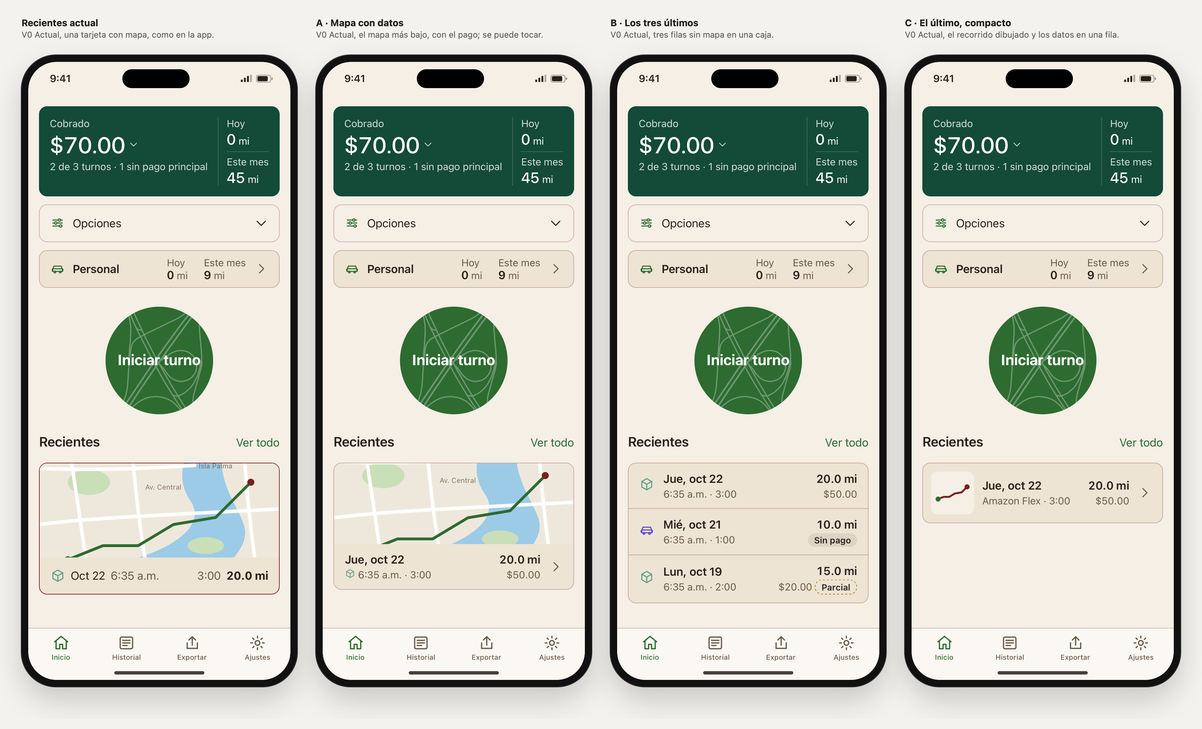
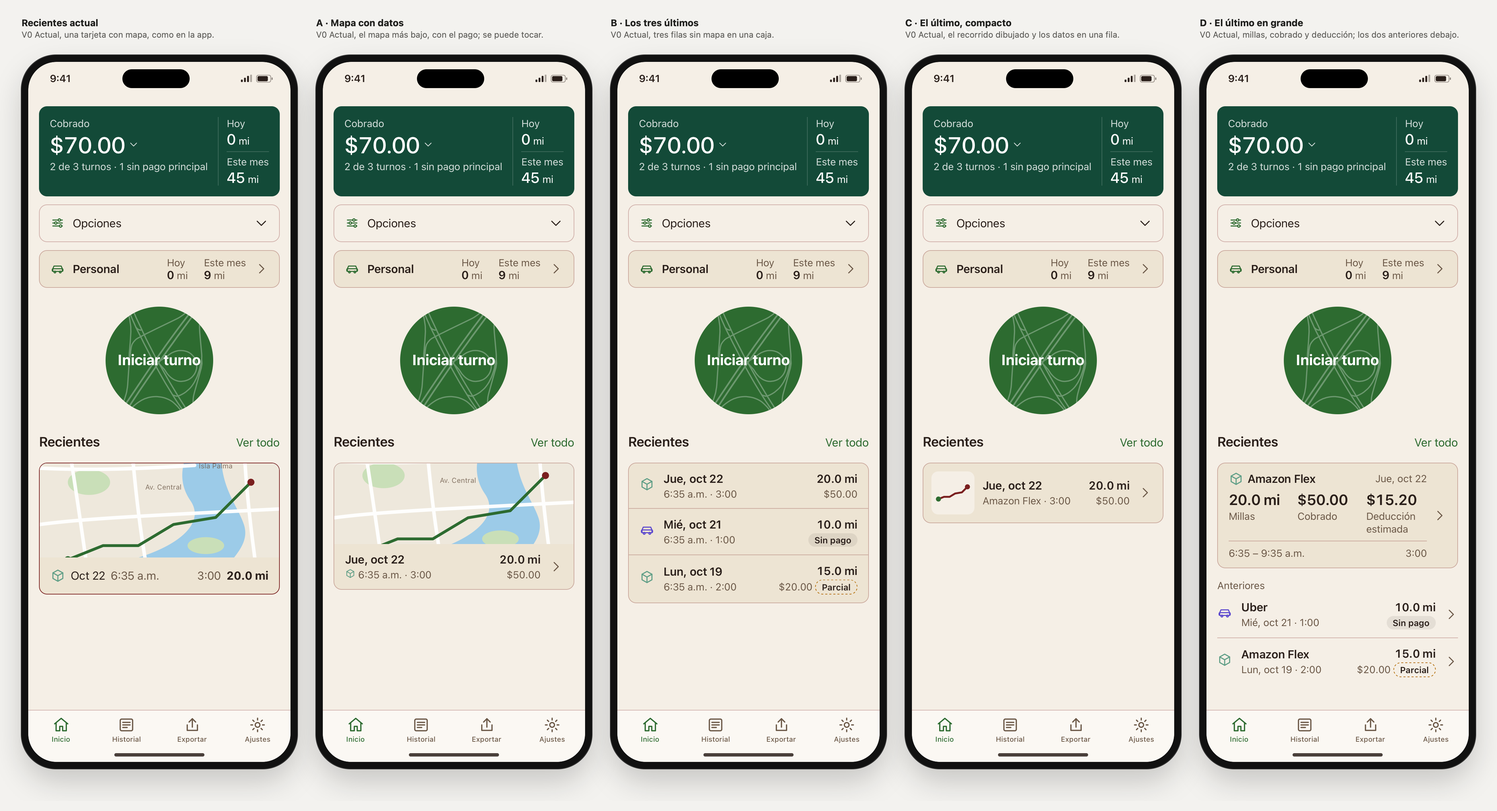
feat(design): add Recientes D, the latest shift large with the two before it
Liber asked for this from a ChatGPT sketch: the latest shift in a tappable
card with miles, pay and the estimated deduction as figures, then the two
earlier shifts as small rows. No map, by his choice, which reverses the
18 May decision like B. Figures wrap to the next line and shrink only when
one cannot fit alone. WebKit audit: 1440 renders, 0 failures; negative
control 12 of 12. Lab only; nothing changes in the app.

diff --git a/prototype/js/screens.js b/prototype/js/screens.js
@@ -505,12 +505,37 @@
       <span class="row-chevron">${icon('chevronRight')}</span></button>`;
   }
 
+  // D · Liber's pick (6 Nov) from a ChatGPT sketch: the latest shift large, with miles, pay and the estimated
+  // deduction as figures, then the two before it as small rows. No map: the route stays in the shift detail.
+  function payFigure(ctx, s) {
+    if (s.main === 'overflow') return { v: '—', chip: '' };
+    if (s.main === null) return s.extras.length ? { v: money(ctx, mainAmount(s)), chip: chip(ctx.t('partialChip'), 'partial') } : { v: '', chip: chip(ctx.t('noPayChip')) };
+    return { v: money(ctx, mainAmount(s)), chip: '' };
+  }
+  function recentD(ctx, list) {
+    const [s, ...rest] = list;
+    const pay = payFigure(ctx, s);
+    const fig = (v, label, extra = '') => `<span class="rd-fig"><span class="rd-val">${v}</span><span class="rd-lab">${esc(label)}${extra ? ` ${extra}` : ''}</span></span>`;
+    const latest = `<button class="rd" id="recent-latest" ${act('openShift', s.id)}><span class="rd-body"><span class="rd-text">
+        <span class="rd-top"><span class="rd-who">${platformBadge(s.platform)}<span class="rd-name">${esc(pname(s.platform))}</span></span> <span class="rd-date">${esc(ctx.fmt.date(ctx.lang, s.date, 'weekdayShort'))}</span></span>
+        <span class="rd-figs">${fig(esc(mi(ctx, s.miles)), ctx.t('miles'))}${fig(pay.v ? esc(pay.v) : pay.chip, ctx.t('paid'), pay.v ? pay.chip : '')}${fig(s.deduction == null ? '—' : esc(money(ctx, s.deduction)), ctx.t('estimatedDeduction'))}</span>
+        <span class="rd-foot"><span>${esc(ctx.fmt.timeRange(ctx.lang, s.start, s.end))}</span> <span class="rd-dur">${durShort(s)}</span></span>
+      </span><span class="row-chevron">${icon('chevronRight')}</span></span></button>`;
+    const rows = rest.length ? `<h3 class="rd-earlier">${esc(ctx.t('earlier'))}</h3><div class="rd-list">${rest.map((r) => `<button class="rb-row rd-row" ${act('openShift', r.id)}>
+      <span class="rb-icon">${platformBadge(r.platform)}</span>
+      <span class="rb-content"><span class="rb-main"><span class="rd-rname">${esc(pname(r.platform))}</span> <span class="rb-sub">${esc(ctx.fmt.date(ctx.lang, r.date, 'weekdayShort'))} · ${durShort(r)}</span></span>
+      <span class="rb-side"><span class="rb-mi">${mi(ctx, r.miles)}</span> <span class="rb-pay">${payNote(ctx, r)}</span></span></span>
+      <span class="row-chevron">${icon('chevronRight')}</span>
+    </button>`).join('')}</div>` : '';
+    return `<div class="rd-wrap">${latest}${rows}</div>`;
+  }
+
   function recentBlock(ctx) {
     const list = [...ctx.data.shifts].sort(byDateDesc).slice(0, 3);
-    if (ctx.famId === 'v0' && ['actual', 'a', 'b', 'c'].includes(ctx.recientes)) {
+    if (ctx.famId === 'v0' && ['actual', 'a', 'b', 'c', 'd'].includes(ctx.recientes)) {
       // As in the app, Home shows no Recent section at all until a shift is saved.
       if (!list.length) return '';
-      const body = { actual: () => recentApp(ctx, list[0]), a: () => recentA(ctx, list[0]), b: () => recentB(ctx, list), c: () => recentC(ctx, list[0]) }[ctx.recientes]();
+      const body = { actual: () => recentApp(ctx, list[0]), a: () => recentA(ctx, list[0]), b: () => recentB(ctx, list), c: () => recentC(ctx, list[0]), d: () => recentD(ctx, list) }[ctx.recientes]();
       return `<section class="section rx-section">${recentHead(ctx)}${body}</section>`;
     }
     if (!list.length) return `<section class="section"><h2 class="section-title">${esc(ctx.t('recent'))}</h2><p class="empty">${esc(ctx.t('emptyRecent'))}</p></section>`;

diff --git a/prototype/js/lab.js b/prototype/js/lab.js
@@ -52,7 +52,8 @@
     actual: ['Recientes actual', 'una tarjeta con mapa, como en la app'],
     a: ['A · Mapa con datos', 'el mapa más bajo, con el pago; se puede tocar'],
     b: ['B · Los tres últimos', 'tres filas sin mapa en una caja'],
-    c: ['C · El último, compacto', 'el recorrido dibujado y los datos en una fila']
+    c: ['C · El último, compacto', 'el recorrido dibujado y los datos en una fila'],
+    d: ['D · El último en grande', 'millas, cobrado y deducción; los dos anteriores debajo']
   };
   // «Tarjeta verde» and «Personal» views: which variants sit side by side.
   const CARD_SETS = { 'actual,c': ['actual', 'c'] };
@@ -177,7 +178,7 @@
     // «Avisos» keeps the whole chosen Home, the dark-mode Corte circle included; only the notices differ.
     const avs = L.view === 'avisos' && !L.solo ? Object.keys(AVISOS) : null;
     // «Recientes» keeps the whole chosen Home, notices B included; only the recent-shifts block differs.
-    const recs = L.view === 'recientes' && !L.solo ? ['actual', 'a', 'b', 'c'] : null;
+    const recs = L.view === 'recientes' && !L.solo ? ['actual', 'a', 'b', 'c', 'd'] : null;
     const fams = L.solo ? [L.family] : L.view === 'gallery' ? Object.keys(FAMS) : L.view === 'compare' ? [L.family, L.familyB] : homes || bds || opts ? [L.family, L.family] : cards || pers || vivos || circs || avs || recs ? (cards || pers || vivos || circs || avs || recs).map(() => L.family) : [L.family];
     document.body.classList.toggle('is-solo', L.solo);
     const stage = $('stage');
@@ -222,7 +223,7 @@
       ${S.lab.view === 'tarjeta' ? '<span>Tarjeta verde: Inicio sin título en todos los marcos, mismos datos y estado; solo cambia la composición de la tarjeta.</span>' : ''}
       ${S.lab.view === 'iniciar' ? '<span>Iniciar turno: todo lo elegido en Inicio en los dos marcos, mismos datos y estado; solo cambia el círculo. El fondo es el trébol real de Woodbridge (Nueva Jersey) trazado con datos de OpenStreetMap.</span>' : ''}
       ${S.lab.view === 'contraste' ? '<span>Contraste en oscuro: todo lo elegido en Inicio y el Fondo · Woodbridge en los tres marcos; solo cambia cómo se cruzan las líneas con el texto. Pon Tema → Oscuro: en claro los tres son iguales.</span>' : ''}
-      ${S.lab.view === 'recientes' ? '<span>Recientes: todo lo elegido en Inicio en los cuatro marcos, avisos B incluidos, mismos datos y estado; solo cambia Recientes. El mapa es ficticio: la app usa Apple Maps.</span>' : ''}
+      ${S.lab.view === 'recientes' ? '<span>Recientes: todo lo elegido en Inicio en los cinco marcos, avisos B incluidos, mismos datos y estado; solo cambia Recientes. El mapa es ficticio: la app usa Apple Maps.</span>' : ''}
       ${S.lab.view === 'avisos' ? '<span>Avisos: todo lo elegido en Inicio en los cuatro marcos, mismos datos y estado; solo cambia cómo se presentan los avisos. Elige una pantalla «Inicio · aviso…» o «Inicio · dos avisos».</span>' : ''}
       ${S.lab.view === 'enmarcha' ? '<span>En marcha: Personal A y todo lo elegido en los tres marcos, mismos datos y estado; solo cambia cómo se muestra el viaje personal en curso. Elige una pantalla «Inicio · viaje personal: …».</span>' : ''}
       ${S.lab.view === 'personal' ? '<span>Personal: Inicio sin título, tarjeta C, desglose y Opciones propuestos en todos los marcos, mismos datos y estado; solo cambia la fila Personal. Aparece cuando el seguimiento personal está activo.</span>' : ''}

diff --git a/prototype/css/app.css b/prototype/css/app.css
@@ -467,6 +467,26 @@
 .app[data-ax="true"] .rb-pay { justify-content: flex-start; }
 .app[data-ax="true"] .rcc { grid-template-columns: 1fr auto; row-gap: var(--space-xs); }
 .app[data-ax="true"] .rcc-sketch { grid-column: 1 / -1; }
+/* D · the latest shift large with three figures, the two before it as plain rows. Figures keep their own width
+   and drop to the next line when they don't fit, so nothing is cut. */
+.rd-wrap { display: flex; flex-direction: column; }
+.rd { display: block; width: 100%; text-align: start; background: var(--color-surface); border: var(--stroke-card) solid var(--color-card-border-subtle); border-radius: var(--radius-card); }
+.rd-body { display: grid; grid-template-columns: 1fr auto; align-items: center; column-gap: var(--space-xs); padding: var(--space-sm) var(--space-md); }
+.rd-text { display: flex; flex-direction: column; gap: var(--space-xs); min-width: 0; }
+.rd-top { display: flex; flex-wrap: wrap; justify-content: space-between; align-items: center; gap: 2px var(--space-sm); }
+.rd-who { display: inline-flex; align-items: center; gap: 6px; font-weight: var(--weight-semibold); }
+.rd-who .ic { width: 1.25em; height: 1.25em; }
+.rd-date { color: var(--color-text-muted); font-size: var(--size-subhead); }
+.rd-figs { display: flex; flex-wrap: wrap; gap: var(--space-xs) var(--space-sm); }
+.rd-fig { flex: 1 1 0; min-width: min-content; display: flex; flex-direction: column; gap: 2px; }
+.rd-val { display: flex; align-items: center; min-height: 1.15em; font-size: var(--size-title2); font-weight: var(--weight-semibold); line-height: 1.15; white-space: nowrap; font-variant-numeric: tabular-nums; }
+.rd-lab { display: inline-flex; flex-wrap: wrap; align-items: center; gap: 4px; color: var(--color-text-muted); font-size: var(--size-subhead); }
+.rd-foot { display: flex; flex-wrap: wrap; justify-content: space-between; gap: 2px var(--space-sm); padding-top: var(--space-xs); border-top: var(--stroke-hairline) solid var(--color-separator); color: var(--color-text-muted); font-size: var(--size-subhead); }
+.rd-dur { font-variant-numeric: tabular-nums; }
+.rd-earlier { margin: var(--space-md) 0 0; font-size: var(--size-subhead); font-weight: 400; color: var(--color-text-muted); }
+.rd-list .rd-row { grid-template-columns: 1.4em 1fr auto; padding-inline: 0; }
+.rd-rname { font-weight: var(--weight-semibold); }
+.rd-row .rb-side { flex-shrink: 1; min-width: 0; }
 
 /* Large text: the icon moves above its title instead of eating a column of the line. */
 .app[data-ax="true"] .nb-item { grid-template-columns: 1fr; row-gap: var(--space-xxs); }

diff --git a/prototype/js/i18n.js b/prototype/js/i18n.js
@@ -55,7 +55,7 @@
       startShift: 'Start Shift',
       recent: 'Recent', viewAll: 'View all',
       // Home «Recent», as in the app's card, and the proposals.
-      recentA11y: 'Most recent shift, {d}, {m} miles', noRoute: 'No Route',
+      recentA11y: 'Most recent shift, {d}, {m} miles', noRoute: 'No Route', earlier: 'Earlier',
       personal: 'Personal', work: 'Work',
       personalToday: '{a} mi today', personalMonth: '{b} mi mo.',
       liveRecording: 'Tracking personal', liveAcquiring: 'Finding your location', liveNoSignal: 'No GPS signal', livePaused: 'Drive paused',
@@ -254,7 +254,7 @@
       startOffHint: 'No disponible con Modo Ahorro de Batería',
       startShift: 'Iniciar turno',
       recent: 'Recientes', viewAll: 'Ver todo',
-      recentA11y: 'Último turno, {d}, {m} millas', noRoute: 'Sin ruta',
+      recentA11y: 'Último turno, {d}, {m} millas', noRoute: 'Sin ruta', earlier: 'Anteriores',
       personal: 'Personal', work: 'Trabajo',
       personalToday: '{a} mi hoy', personalMonth: '{b} mi mes',
       liveRecording: 'Trackeando personal', liveAcquiring: 'Buscando tu ubicación', liveNoSignal: 'Sin señal GPS', livePaused: 'Viaje en pausa',
@@ -441,6 +441,11 @@
       const [h, m] = hhmm.split(':').map(Number);
       const d = new Date(2026, 9, 1, h, m);
       return new Intl.DateTimeFormat(locale(lang), { hour: 'numeric', minute: '2-digit' }).format(d);
+    },
+    timeRange(lang, a, b) {
+      const at = (hhmm) => { const [h, m] = hhmm.split(':').map(Number); return new Date(2026, 9, 1, h, m); };
+      const f = new Intl.DateTimeFormat(locale(lang), { hour: 'numeric', minute: '2-digit' });
+      return f.formatRange ? f.formatRange(at(a), at(b)) : `${f.format(at(a))}–${f.format(at(b))}`;
     },
     duration(mins, withSeconds = true, secs = 0) {
       const h = Math.floor(mins / 60);

diff --git a/prototype/tools/capture-home-webkit.swift b/prototype/tools/capture-home-webkit.swift
@@ -46,7 +46,8 @@ let sets: [String: [Shot]] = [
     Shot(file: "08-actual-es.png", hash: "\(chosenNotices)&recientes=actual&screen=homeNoNotice&theme=light&lang=es&scenario=partial&width=390&text=1", dark: false, solo: true),
     Shot(file: "09-a-es.png", hash: "\(chosenNotices)&recientes=a&screen=homeNoNotice&theme=light&lang=es&scenario=partial&width=390&text=1", dark: false, solo: true),
     Shot(file: "10-b-es.png", hash: "\(chosenNotices)&recientes=b&screen=homeNoNotice&theme=light&lang=es&scenario=partial&width=390&text=1", dark: false, solo: true),
-    Shot(file: "11-c-es.png", hash: "\(chosenNotices)&recientes=c&screen=homeNoNotice&theme=light&lang=es&scenario=partial&width=390&text=1", dark: false, solo: true)
+    Shot(file: "11-c-es.png", hash: "\(chosenNotices)&recientes=c&screen=homeNoNotice&theme=light&lang=es&scenario=partial&width=390&text=1", dark: false, solo: true),
+    Shot(file: "12-d-es.png", hash: "\(chosenNotices)&recientes=d&screen=homeNoNotice&theme=light&lang=es&scenario=partial&width=390&text=1", dark: false, solo: true)
   ],
   "avisos": [
     Shot(file: "01-comparar-siempre-claro-es.png", hash: "\(avisosView)&screen=home&theme=light&lang=es&scenario=partial&width=390&text=1", dark: false, solo: false, full: true),

diff --git a/prototype/js/app.js b/prototype/js/app.js
@@ -271,6 +271,17 @@
     }
   }
 
+  // Recientes D: a figure that can't fit even alone on its line shrinks just enough, like fitAmounts.
+  function fitRecentFigures(app) {
+    for (const val of app.querySelectorAll('.rd-val')) {
+      const room = val.closest('.rd-text').clientWidth;
+      const need = val.scrollWidth;
+      if (need <= room) continue;
+      const size = parseFloat(getComputedStyle(val).fontSize);
+      val.style.fontSize = `${Math.floor((size * room) / need)}px`;
+    }
+  }
+
   // Render all frames, keeping focus and scroll stable across re-renders.
   // Personal A: one row when both measures fit beside the title; otherwise title and chevron on
   // top and the measures below (like SwiftUI's ViewThatFits). Measured with nothing allowed to wrap.
@@ -318,6 +329,7 @@
       app.innerHTML = renderApp(slot.dataset.family, { home: app.dataset.home, card: app.dataset.card, bd: app.dataset.bd, opts: app.dataset.opts, personal: app.dataset.personal, vivo: app.dataset.vivo, circ: app.dataset.circ, avisos: app.dataset.avisos, recientes: app.dataset.recientes });
       fitAmounts(app);
       fitPersonal(app);
+      fitRecentFigures(app);
     }
     slots.forEach((s, i) => {
       if (isNav) return;

diff --git a/prototype/index.html b/prototype/index.html
@@ -64,7 +64,7 @@
         <select id="c-avisos"><option value="actual">Actual</option><option value="a">A · Un solo aviso</option><option value="b">B · Cada uno en su sitio</option><option value="c">C · Franja arriba</option></select>
       </label>
       <label>Recientes
-        <select id="c-recientes"><option value="lab">Antigua del laboratorio</option><option value="actual">Actual (app)</option><option value="a">A · Mapa con datos</option><option value="b">B · Los tres últimos</option><option value="c">C · El último, compacto</option></select>
+        <select id="c-recientes"><option value="lab">Antigua del laboratorio</option><option value="actual">Actual (app)</option><option value="a">A · Mapa con datos</option><option value="b">B · Los tres últimos</option><option value="c">C · El último, compacto</option><option value="d">D · El último en grande</option></select>
       </label>
       <label>Marcos
         <select id="c-personals"><option value="actual,a,b">Actual, A y B</option><option value="actual,a">Actual y A</option><option value="a,b">A y B</option></select>

diff --git a/prototype/HOME-RECIENTES.md b/prototype/HOME-RECIENTES.md
@@ -1,8 +1,10 @@
-# Recientes de Inicio: tres propuestas
+# Recientes de Inicio: cuatro propuestas
 
 Rama `design/home-sin-titulo-2026-10-27`, 6 nov 2026. Viene después de los avisos. El resto de Inicio no cambia: todo lo elegido sigue igual, avisos B incluidos.
 
-![Recientes de la app, A, B y C, claro, ES, 390 px](captures/home-recientes/01-comparar-claro-es.png)
+![Recientes de la app, A, B, C y D, claro, ES, 390 px](captures/home-recientes/01-comparar-claro-es.png)
+
+**6 nov, después de ver A, B y C:** Liber pidió D, a partir de un boceto de ChatGPT. Ver [D · El último en grande](#d--el-último-en-grande-recientesd).
 
 ## Recientes hoy, en la app
 
@@ -27,9 +29,9 @@ Esa tarjeta sustituyó a una lista de tres filas, según el comentario del códi
 4. **Sin ruta, queda una caja vacía de 140 pt** (captura 03).
 5. **El borde rojo vino fuerte es el mismo de los avisos,** así que contenido y alertas se confunden.
 
-## Las tres propuestas
+## Las propuestas
 
-Lo que tienen en común:
+Lo que tienen en común A, B, C y D:
 - **Borde suave,** como Opciones y Personal: es contenido, no una alerta.
 - **Toda la tarjeta o fila abre el turno.** En el laboratorio lleva a un detalle aproximado.
 - **Ningún dato se corta:** cuando no cabe, baja a la línea siguiente.
@@ -79,20 +81,52 @@ Una sola fila con el último turno.
   - El dibujo muestra la forma del recorrido, pero no dónde fue: no hay calles ni lugares.
   - Muestra un solo turno.
 
+### D · El último en grande (`recientes=d`)
+
+Pedida por Liber el 6 nov, a partir de un boceto de ChatGPT con el último turno en grande y los dos anteriores debajo. Liber eligió **sin mapa** y, como datos grandes, **lo cobrado y la deducción estimada**, además de las millas.
+
+- **El último turno, en una tarjeta que se puede tocar:**
+  - arriba, la plataforma y la fecha;
+  - tres cifras al tamaño de título 2: millas, cobrado (o «Sin pago» / «Parcial») y deducción estimada;
+  - debajo de una línea fina, el horario de inicio a fin y la duración, en pequeño.
+- **«Anteriores»:** los dos turnos de antes, en filas sin caja, con la plataforma, la fecha y la duración, las millas y el pago. Cada fila abre su turno.
+- **Se adapta:**
+  - con un solo turno no hay «Anteriores», y con dos hay una fila;
+  - cada cifra mantiene su ancho y baja a la línea siguiente cuando no cabe;
+  - una cifra que no cabe ni sola en su línea encoge lo justo, como la cifra de la tarjeta verde (en SwiftUI, `minimumScaleFactor`);
+  - sin ruta no cambia nada, porque no lleva mapa.
+
+Qué se cambió del boceto de ChatGPT:
+- **La tarjeta grande del boceto solo mostraba millas y horario.** D le añade lo cobrado y la deducción.
+- **Su «20.0» era más grande que cualquier tamaño de Earnly** y competía con la cifra de la tarjeta verde. En D las tres cifras van a título 2.
+- **«ANTERIORES» en mayúsculas pequeñas no existe en Earnly.** Va en el texto gris de siempre.
+- **El boceto mostraba el año en las filas y la hora en una tercera línea.** En D las filas tienen la fecha sin año y la duración; el horario completo está en la tarjeta grande y en el detalle.
+- **El boceto decía «Pagado».** D usa «Cobrado», la palabra de la app.
+- **El boceto metía la tarjeta dentro de otra caja.** En D no hay caja exterior: Inicio no la tiene.
+
+- **Ventajas:**
+  - Con texto normal a 390 px y sin avisos, la tarjeta grande cabe entera en la primera pantalla (157 px, acaba en 703 de 717).
+  - Muestra lo que dejó el último turno sin abrirlo, y qué turnos anteriores faltan por cobrar.
+  - Inicio no carga un mapa.
+- **Costes:**
+  - **Deshace la decisión del 18 de mayo,** igual que B: el mapa sale de Inicio y solo queda en el detalle del turno, a un toque.
+  - Es la más alta: 331 px a 390 px, 457 px a 320 px y 953 px con texto al 200 %. Los dos anteriores quedan debajo de la primera pantalla.
+  - La deducción estimada aparece en Inicio por turno. Es la cifra que ya guarda cada turno; no se calcula nada nuevo.
+
 ## Medidas
 
 iPhone de 390 × 844, texto normal, español, claro. Sin avisos, la cabecera «Recientes» empieza a 494 px y la pantalla acaba a 717 px.
 
-| | Hoy | A | B | C |
-|---|---|---|---|---|
-| Alto del bloque, sin la cabecera | 196 | 190 | 209 | **90** |
-| Lo que se ve en la primera pantalla, sin avisos | 171 de 196 | 171 de 190 | 171 de 209 | **90 de 90, entero** |
-| Con un aviso B | 59 | 59 | 59 | 59 |
-| Con dos avisos | 0 | 0 | 0 | 0 |
-| A 320 px (fuera de la primera pantalla) | 196 | 190 | 299 | 114 |
-| Con texto al 200 %, 390 px | 218, cortado | 319 | 590 | 270 |
+| | Hoy | A | B | C | D |
+|---|---|---|---|---|---|
+| Alto del bloque, sin la cabecera | 196 | 190 | 209 | **90** | 331 |
+| Lo que se ve en la primera pantalla, sin avisos | 171 de 196 | 171 de 190 | 171 de 209 | **90 de 90, entero** | 171 de 331: la tarjeta grande entera |
+| Con un aviso B | 59 | 59 | 59 | 59 | 59 |
+| Con dos avisos | 0 | 0 | 0 | 0 | 0 |
+| A 320 px (fuera de la primera pantalla) | 196 | 190 | 299 | 114 | 457 |
+| Con texto al 200 %, 390 px | 218, cortado | 319 | 590 | 270 | 953 |
 
-## Recomendación: A
+## Recomendación: A (antes de D)
 
 - **Respeta la decisión del 18 de mayo.** El mapa real se queda: tu forma de elegir el trébol («idéntico a la calle») dice que la geografía real importa.
 - **Arregla lo que está mal medido hoy:**
@@ -104,10 +138,12 @@ iPhone de 390 × 844, texto normal, español, claro. Sin avisos, la cabecera «R
 - **C es la alternativa** si pesa más lo compacto y la identidad que ver las calles: cabe entera en pantalla y no carga mapa.
 - **B solo tiene sentido** si importa más ver en Inicio qué turnos faltan por cobrar que el mapa. Pero deshace una decisión ya tomada.
 
+**Después, Liber pidió D.** Él eligió quitar el mapa, sabiendo que deshace lo del 18 de mayo. D se queda junto a las otras hasta que la confirme al verla.
+
 ## Comprobado
 
-- **Auditoría en WebKit: 1152 renders, 0 fallos en las propuestas.**
-  - Combinaciones: 8 estados × 4 variantes × claro y oscuro × ES y EN × 320, 390 y 430 px × texto al 100, 140 y 200 %.
+- **Auditoría en WebKit: 1440 renders, 0 fallos en las propuestas.**
+  - Combinaciones: 8 estados × 5 variantes × claro y oscuro × ES y EN × 320, 390 y 430 px × texto al 100, 140 y 200 %.
   - Los 8 estados:
     - sin avisos, con un aviso y con dos;
     - último turno sin ruta;
@@ -123,11 +159,16 @@ iPhone de 390 × 844, texto normal, español, claro. Sin avisos, la cabecera «R
     - que «Ver todo» mida al menos 44 px y no se parta;
     - el número de turnos esperado;
     - el mapa o la caja «Sin ruta» según el caso;
-    - que no haya sección sin turnos.
-  - Antes de dar por buenos los resultados, se comprobó que cada render tenía el tema, el idioma, el ancho, el texto, el escenario y las variantes pedidas: 1152 de 1152.
+    - que no haya sección sin turnos;
+    - en D: una sola tarjeta grande con tres cifras, que ninguna cifra se salga de la tarjeta, que el último turno sea el de arriba, «Anteriores» solo si hay más de un turno, y ningún mapa.
+  - Antes de dar por buenos los resultados, se comprobó que cada render tenía el tema, el idioma, el ancho, el texto, el escenario y las variantes pedidas: 1440 de 1440.
+- **Fallos encontrados y corregidos en D,** los dos con un importe largo a 320 px y texto al 200 %:
+  - la cifra cobrada no cabía ni sola en su línea y se salía de la tarjeta; ahora encoge lo justo;
+  - en una fila anterior, «$23,456.79 Parcial» se salía de la pantalla; ahora la etiqueta baja de línea.
 - **Fallo encontrado y corregido:** en B, a 320 px con texto al 140 % y un importe largo, se cortaban la fecha y el horario. Ahora las millas y el pago bajan debajo de la fecha cuando no caben.
 - **Fallo de la auditoría, encontrado con el control negativo:** la comprobación de «"Ver todo" partido» contaba cajas, y un botón en línea siempre da una. Ahora cuenta líneas de texto, y se repitió la auditoría completa.
-- **Control negativo: 6 de 6 detectados.** Se rompieron a propósito el contraste, un recorte, el tamaño de una fila, una fila de menos, una tarjeta sin acción y «Ver todo» partido.
+- **Control negativo: 12 de 12 detectados.** Se rompieron a propósito el contraste, un recorte, el tamaño de una fila, una fila de menos, una tarjeta sin acción y «Ver todo» partido; y en D, el contraste de las etiquetas, una cifra recortada, una cifra fuera de la tarjeta, una cifra de menos, una fila de menos y un mapa añadido.
+- La auditoría de los avisos sigue en 864 de 864 sin fallos.
 - `check-contrast.mjs` correcto, igual que `build-tokens.mjs --check` y `SHA256SUMS`. `check-ui.cjs` no se ejecutó, porque Playwright no está instalado.
 - **Sin probar:** iOS, Apple Maps real, VoiceOver y Dynamic Type real.
 
@@ -135,7 +176,7 @@ iPhone de 390 × 844, texto normal, español, claro. Sin avisos, la cabecera «R
 
 - Comparación: **Vista → «Recientes»**, por ejemplo con **Pantalla → «Inicio · sin avisos»** o «Inicio · último turno sin ruta».
   `#view=recientes&family=v0&lang=es&scenario=partial&screen=homeNoNotice`
-- Una variante sola: control **Recientes** o parámetro `recientes=lab|actual|a|b|c`.
+- Una variante sola: control **Recientes** o parámetro `recientes=lab|actual|a|b|c|d`.
 - Capturas: `swift prototype/tools/capture-home-webkit.swift recientes`.
 
 ## Capturas (`captures/home-recientes/`)
@@ -149,7 +190,7 @@ iPhone de 390 × 844, texto normal, español, claro. Sin avisos, la cabecera «R
 | `05-comparar-320-texto-200-es.png` | 320 px y texto al 200 %: la fila de la app se corta |
 | `06-comparar-con-aviso-es.png` | Con el aviso «Siempre» (B) |
 | `07-comparar-sin-datos-es.png` | Sin turnos: no hay sección |
-| `08`–`11-…-es.png` | Hoy, A, B y C a 390 × 844 sin alargar |
+| `08`–`12-…-es.png` | Hoy, A, B, C y D a 390 × 844 sin alargar |
 
 ## Si pasa a la app
 
@@ -158,8 +199,13 @@ iPhone de 390 × 844, texto normal, español, claro. Sin avisos, la cabecera «R
   - una etiqueta de VoiceOver que incluya el pago.
 - **B:** quitar el mapa de Inicio y volver a la lista que ya describe el SPEC.
 - **C:** dibujar el recorrido como una línea simple con los puntos del turno, sin mapa en Inicio.
+- **D:**
+  - quitar el mapa de Inicio;
+  - la tarjeta del último turno con tres cifras que bajan de línea, por ejemplo con `ViewThatFits`, y `minimumScaleFactor` en cada cifra;
+  - los dos anteriores como filas;
+  - una etiqueta de VoiceOver por tarjeta y por fila que incluya el pago y la deducción.
 - **En las tres:** actualizar el SPEC §4.3, que ya hoy no coincide con la app; PARITY.md y `docs/parity/home-screen.md`; y Android.
 
 ## Siguiente paso
 
-Liber elige A, B, C o ninguna. Nada pasa a SwiftUI.
+Liber confirma D al verla, o elige otra. Nada pasa a SwiftUI.

diff --git a/prototype/HANDOFF.md b/prototype/HANDOFF.md
@@ -149,7 +149,7 @@ Detalle completo en [HOME-AVISOS.md](HOME-AVISOS.md).
   - cambiar SPEC §4.3, PARITY.md y Android.
 - Siguiente paso de entonces: el próximo detalle de Inicio. Fue Recientes, el siguiente del orden propuesto.
 
-### Recientes (6 nov): **tres propuestas, sin elegir**
+### Recientes (6 nov): **D pedida por Liber, pendiente de confirmar**
 
 Detalle completo en [HOME-RECIENTES.md](HOME-RECIENTES.md).
 
@@ -171,7 +171,13 @@ Detalle completo en [HOME-RECIENTES.md](HOME-RECIENTES.md).
 - **Comprobación:** 1152 renders sin fallos en las propuestas; control negativo de 6 de 6.
   - Se corrigió un recorte en B con un importe largo.
   - Se corrigió también la propia comprobación de «Ver todo», que contaba cajas en vez de líneas.
-- **Siguiente paso:** que Liber elija A, B, C o ninguna. Nada pasa a SwiftUI.
+- **Después, Liber pidió D · El último en grande** (`recientes=d`), a partir de un boceto de ChatGPT.
+  - Sin mapa: lo eligió él, aunque deshace la decisión del 18 may.
+  - Tres cifras en grande: millas, cobrado y deducción estimada. Debajo, el horario y la duración.
+  - Los dos anteriores van como filas, bajo «Anteriores».
+  - A 390 px sin avisos, la tarjeta grande cabe entera en la primera pantalla. El bloque mide 331 px.
+- **Comprobación con D:** 1440 renders sin fallos; control negativo de 12 de 12. Se corrigieron dos desbordes de D con un importe largo a 320 px y texto al 200 %.
+- **Siguiente paso:** que Liber confirme D al verla. Nada pasa a SwiftUI.
 
 ## Cómo continuar
 

diff --git a/prototype/README.md b/prototype/README.md
@@ -25,7 +25,7 @@ Este es un laboratorio navegable en HTML, CSS y JavaScript con datos sintéticos
 | Tema, Idioma | Claro u oscuro; EN o ES. El idioma también se cambia desde Ajustes → Idioma, dentro de la app |
 | Escenario | Pago parcial (24 oct), pagos completos, cifras demasiado grandes, sin datos (aproximación), turno sin cerrar y tres pruebas de diseño: importe largo, cobrado $0 y millas personales largas |
 | Avisos | Avisos de Inicio: los de hoy, A · Un solo aviso, B · Cada uno en su sitio (elegida) o C · Franja arriba (solo V0); ver [HOME-AVISOS.md](HOME-AVISOS.md) |
-| Recientes | Recientes de Inicio: la antigua del laboratorio (por defecto; no es la app), la actual de la app, A · Mapa con datos, B · Los tres últimos o C · El último, compacto (solo V0); ver [HOME-RECIENTES.md](HOME-RECIENTES.md) |
+| Recientes | Recientes de Inicio: la antigua del laboratorio (por defecto; no es la app), la actual de la app, A · Mapa con datos, B · Los tres últimos, C · El último, compacto o D · El último en grande (solo V0); ver [HOME-RECIENTES.md](HOME-RECIENTES.md) |
 | Pantalla | Salta a uno de los estados de ejemplo, incluidos los cuatro de viaje personal en marcha (con Personal A) y los de avisos (sin avisos, ubicación apagada, ahorro de batería, dos avisos y Personal sin Movimiento) y el último turno sin ruta. Después se puede navegar normalmente por la app |
 | Ancho | 320, 390 o 430 px |
 | Texto | 100 %, 135 % o 200 %. Aproxima Dynamic Type/AX; no equivale a iOS |
